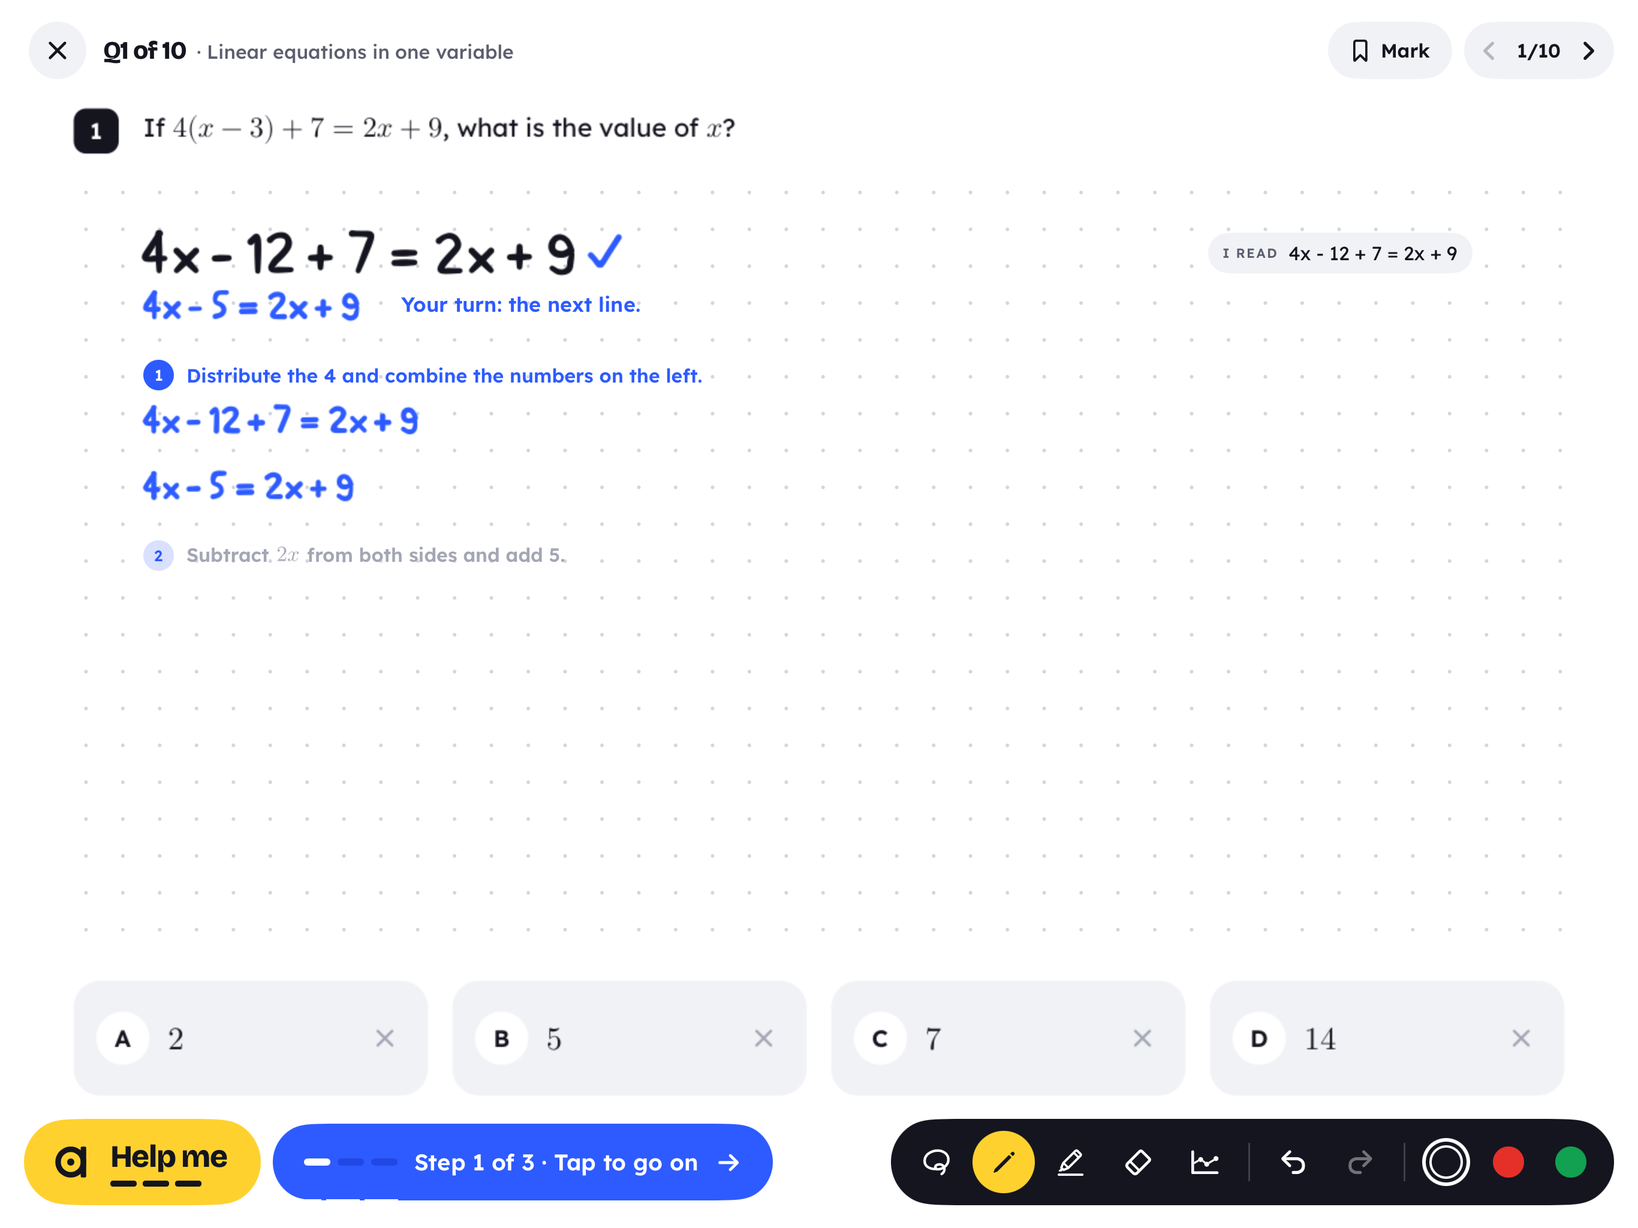
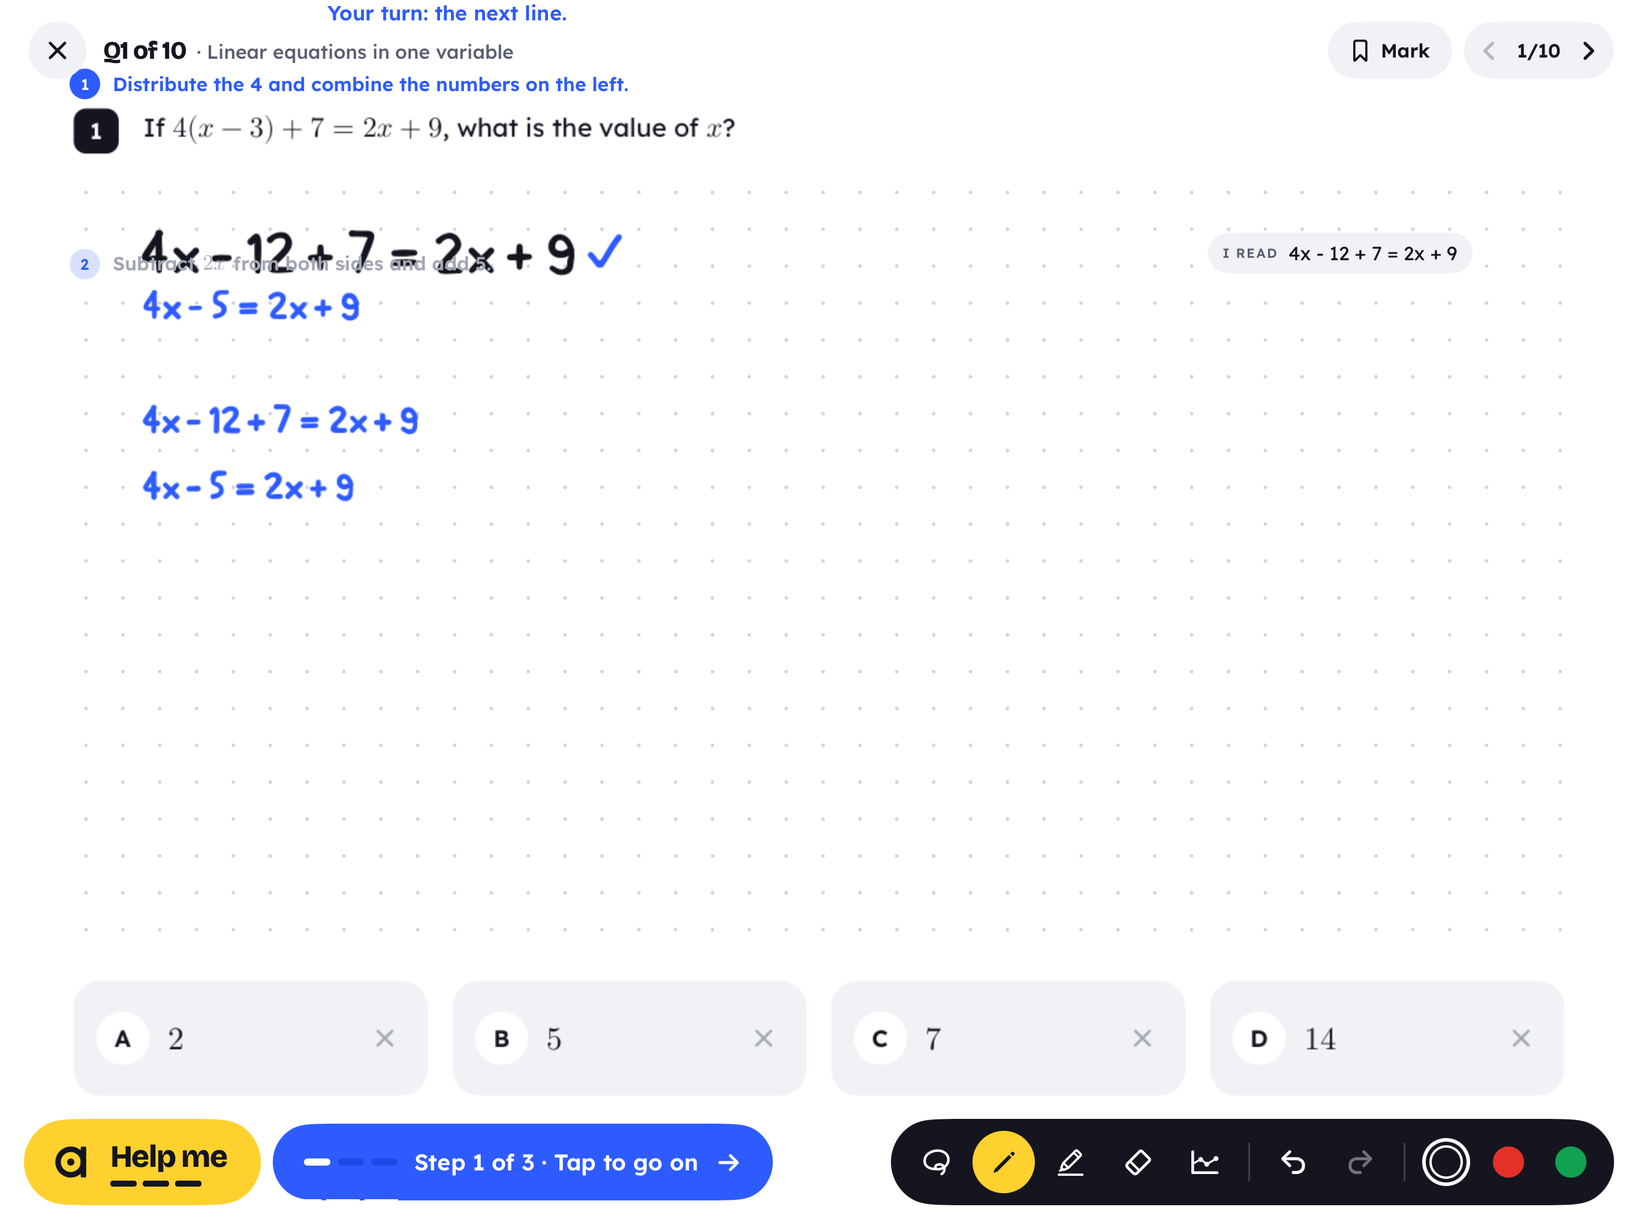
fix(sat2): upright, the page fits the width (the chrome and the page layer never widen the canvas), the row clear of the dock; the ladder card over Help me; the grid-in's rule; the live E2E test (skipped without AGATHON_E2E) and its autowrite tokens

diff --git a/ios/AgathonUITests/SATLiveE2ETests.swift b/ios/AgathonUITests/SATLiveE2ETests.swift
@@ -1,0 +1,111 @@
+import XCTest
+
+/// SAT v2 end to end against a LOCAL server with the REAL live services (no stubs): skipped unless
+/// `AGATHON_E2E=1`. Run it in an integration step with a capped budget (it makes real recognize,
+/// check and Help me calls), never against production:
+///
+///     AGATHON_E2E=1 AGATHON_API_URL=http://localhost:3901 SUPABASE_URL=… SUPABASE_ANON_KEY=… \
+///     xcodebuild test-without-building … -only-testing:AgathonUITests/SATLiveE2ETests -parallel-testing-enabled NO
+///
+/// (the TEST_RUNNER_ prefix passes them to the app: `TEST_RUNNER_AGATHON_E2E`, `TEST_RUNNER_AGATHON_API_URL`, …).
+///
+/// The flow, as a student with no account (`POST /api/sat/anon`, the simulator's debug header):
+///  1. the first run's "I'm studying for the SAT" → SAT home → Practice 10 (`/api/sat/next`, the bank's v2
+///     notes, `tz`);
+///  2. on question 1 the student writes the question's own first solution step in a student's hand
+///     (`StudentHand`, through the canvas's touch path): the first ink claims the pass
+///     (`/api/sat/tutor`), the line is read (`/api/live/recognize`, `sat_question_id`) and TICKED;
+///  3. Help me twice: the nudge, then ONE step through the live Help me (`step live`, "Your turn");
+///  4. the first question with a plane: a loop round its first labelled point → `sat_figure_marks`
+///     ("circled near (…)") rides on the live bodies; the student writes a line, and the tutor reads it
+///     with the marks in its context.
+final class SATLiveE2ETests: XCTestCase {
+    private var app: XCUIApplication!
+    private let env = ProcessInfo.processInfo.environment
+
+    override func setUpWithError() throws {
+        try XCTSkipUnless(env["AGATHON_E2E"] == "1", "the end-to-end run needs AGATHON_E2E=1 and a local server (real live calls)")
+        continueAfterFailure = false
+        XCUIDevice.shared.orientation = .landscapeLeft
+    }
+
+    override func tearDownWithError() throws {
+        app?.terminate()
+    }
+
+    func testARealSATPageTicksHelpsAndReadsTheFigure() throws {
+        app = XCUIApplication()
+        app.launchArguments += ["-satLive", "-noLabs", "-onboardingFresh",
+                                "-satAutowrite", "step:0|step:1|circle:auto|step:0"]
+        for key in ["AGATHON_API_URL", "SUPABASE_URL", "SUPABASE_ANON_KEY"] {
+            if let v = env[key] { app.launchEnvironment[key] = v }
+        }
+        app.launch()
+        tap("onboarding.who.sat", wait: 60)
+        XCTAssertTrue(element("sat.home").waitForExistence(timeout: 60), "SAT home with an anonymous session")
+        tap("sat.home.practice10", wait: 30)
+        XCTAssertTrue(element("board.canvas").waitForExistence(timeout: 60))
+        waitFor("sat.position", label: "Q1 of", timeout: 30)
+        probe("tutor ready live off")
+
+        // 2. a right step in a student's hand: the pass, the read, the tick
+        tap("sat.debug.write")
+        probe("tutor on live on", timeout: 60)
+        probe("read 1", timeout: 60)
+        probe("ticks 1", timeout: 90)
+
+        // 3. Help me: the nudge, then one step through the live tutor
+        tap("sat.helpMe")
+        probe("rung ", timeout: 10)
+        tap("sat.helpMe")
+        probe("rung 2", timeout: 10)
+        probe("yourTurn yes", timeout: 90)
+        probe("step live", timeout: 5)
+        XCTAssertTrue(element("sat.yourTurn").exists)
+
+        // 4. the first question with a plane: marks on it, read in its terms
+        tap("sat.debug.write") // step:1 (more work on question 1: the next step)
+        var found = false
+        for _ in 0..<9 {
+            tap("sat.next")
+            sleep(2)
+            if (element("sat.debug").value as? String ?? "").contains("plot yes") {
+                found = true
+                break
+            }
+        }
+        try XCTSkipUnless(found, "the set had no question with a plane")
+        tap("sat.debug.write") // circle:auto
+        probe("marks On the question's graph the student drew: circled near", timeout: 30)
+        tap("sat.debug.write") // a line on the plane's page: read with the marks beside sat_question_id
+        probe("read 1", timeout: 90)
+    }
+
+    // MARK: - helpers
+
+    private func probe(_ text: String, timeout: TimeInterval = 15, file: StaticString = #filePath, line: UInt = #line) {
+        waitFor("sat.debug", value: text, timeout: timeout, file: file, line: line)
+    }
+
+    private func element(_ id: String) -> XCUIElement {
+        app.descendants(matching: .any).matching(identifier: id).firstMatch
+    }
+
+    private func tap(_ id: String, wait: TimeInterval = 15, file: StaticString = #filePath, line: UInt = #line) {
+        let e = element(id)
+        XCTAssertTrue(e.waitForExistence(timeout: wait), "no \(id)", file: file, line: line)
+        let end = Date().addingTimeInterval(wait)
+        while !e.isHittable && Date() < end { usleep(100_000) }
+        usleep(400_000)
+        e.tap()
+    }
+
+    private func waitFor(_ id: String, label: String? = nil, value: String? = nil, timeout: TimeInterval,
+                         file: StaticString = #filePath, line: UInt = #line) {
+        let e = element(id)
+        XCTAssertTrue(e.waitForExistence(timeout: timeout), "no \(id)", file: file, line: line)
+        let predicate = value.map { NSPredicate(format: "value CONTAINS %@", $0) } ?? NSPredicate(format: "label CONTAINS %@", label ?? "")
+        let result = XCTWaiter().wait(for: [XCTNSPredicateExpectation(predicate: predicate, object: e)], timeout: timeout)
+        XCTAssertEqual(result, .completed, "\(id) never said \(value ?? label ?? ""): \(e.value as? String ?? "nil")", file: file, line: line)
+    }
+}

diff --git a/ios/Agathon/Screens/SAT/SATSessionScreen.swift b/ios/Agathon/Screens/SAT/SATSessionScreen.swift
@@ -130,10 +130,7 @@ private struct SATBoardRoom: View {
     @State private var graphOpen = false
 
     /// Upright, the page sits a little lower so the question never goes under the top bar.
-    private var topInset: Double {
-        let k = size.width / 1600
-        return max(0, 84 - 104 * k)
-    }
+    private var topInset: Double { SATSessionModel.topInset(width: size.width) }
 
     var body: some View {
         ZStack {
@@ -190,20 +187,11 @@ private struct SATBoardRoom: View {
             SATTopBar(model: topModel, close: close, mark: { practice.toggleMarked(); model.objectWillChange.send() },
                       previous: { model.previous() }, next: { model.next() }, capTapped: capTapped)
             Spacer(minLength: 0)
-            if model.ladderCard {
-                HStack {
-                    SATLadderCard { model.ladderCard = false }
-                    Spacer()
-                }
-                .padding(.horizontal, SATChromeSize.edge)
-                .padding(.bottom, 12)
-                .transition(.opacity)
-            }
             HStack(alignment: .center, spacing: SATChromeSize.gap) {
                 SATHelpButton(used: practice.item.ladder.reached?.rawValue) { model.helpMe() }
                 checkOrWalk
                 Spacer(minLength: 12)
-                SATDock(controller: controller) { graphOpen = true }
+                SATDock(controller: controller, compact: size.width < 1100) { graphOpen = true }
                     .popover(isPresented: $graphOpen, arrowEdge: .bottom) {
                         SATGraphField { typed in await model.graph(typed) }
                             .presentationCompactAdaptation(.popover)
@@ -212,7 +200,8 @@ private struct SATBoardRoom: View {
             .padding(.horizontal, SATChromeSize.edge)
             .padding(.bottom, 19)
         }
-        .padding(.top, 0)
+        // the chrome never widens the board (a row too wide for the window squeezes, it doesn't push)
+        .frame(width: size.width, height: size.height)
     }
 
     @ViewBuilder private var checkOrWalk: some View {
@@ -260,8 +249,9 @@ private struct SATPageLayer: View {
 
     var body: some View {
         let screen = model.phase.session?.controller.currentScreenID
-        ZStack(alignment: .topLeading) {
-            Color.clear.allowsHitTesting(false)
+        // over a flexible clear base: what is placed past the edge never sizes the layer (nor, with
+        // it, the board's ZStack, the canvas and the camera's fit)
+        Color.clear.allowsHitTesting(false).overlay(alignment: .topLeading) { ZStack(alignment: .topLeading) {
             if let layout = model.layoutHere, let q = practice.current {
                 ForEach(model.words.filter { $0.screen == screen }) { w in
                     let at = viewport.toView(w.at)
@@ -279,9 +269,17 @@ private struct SATPageLayer: View {
                 }
                 answerTargets(layout, q)
                 if model.showsWrongNote { wrongNote(layout, q) }
+                if model.ladderCard {
+                    // over Help me (bottom left), clear of the answer row
+                    let rowTop = viewport.toView(Vec2(0, layout.rowTop)).y
+                    SATLadderCard { model.ladderCard = false }
+                        .alignmentGuide(.leading) { _ in -SATChromeSize.edge }
+                        .alignmentGuide(.top) { d in -(rowTop - 20 - d.height) }
+                        .transition(.opacity)
+                }
             }
-        }
-        .frame(maxWidth: .infinity, maxHeight: .infinity, alignment: .topLeading)
+        } }
+        .clipped()
         .id(model.layoutTick)
     }
 

diff --git a/ios/Packages/AgathonSAT/Sources/AgathonSAT/Session/SATChrome.swift b/ios/Packages/AgathonSAT/Sources/AgathonSAT/Session/SATChrome.swift
@@ -309,17 +309,22 @@ enum SATChromeColor {
 /// undo, redo | three pens (ink, red, green). No page arrows: the top bar has them.
 public struct SATDock: View {
     @ObservedObject var controller: BoardController
+    /// a narrow window (upright): a little tighter, so the row fits beside Help me and Check
+    let compact: Bool
     let graph: () -> Void
 
-    public init(controller: BoardController, graph: @escaping () -> Void) {
+    public init(controller: BoardController, compact: Bool = false, graph: @escaping () -> Void) {
         self.controller = controller
+        self.compact = compact
         self.graph = graph
     }
+
+    private var tool: CGFloat { compact ? 46 : 52 }
 
     public static let pens: [InkColor] = [.black, .red, .green]
 
     public var body: some View {
-        HStack(spacing: 4) {
+        HStack(spacing: compact ? 2 : 4) {
             tool(.select, "lasso", "Select", id: "sat.tool.select")
             tool(.pen, "pencil", "Pencil", id: "sat.tool.pen")
             tool(.highlighter, "highlighter", "Highlighter", id: "sat.tool.highlighter")
@@ -340,7 +345,7 @@ public struct SATDock: View {
                         Circle().fill(Color(cgColor: RenderGeometry.cgColor(pen))).frame(width: pen == .black ? 28 : 26, height: pen == .black ? 28 : 26)
                             .overlay(Circle().strokeBorder(pen == .black ? DS.Color.onInk : .clear, lineWidth: 2))
                     }
-                    .frame(width: 48, height: 48)
+                    .frame(width: compact ? 44 : 48, height: 48)
                     .contentShape(Rectangle())
                 }
                 .buttonStyle(SATPress())
@@ -349,13 +354,13 @@ public struct SATDock: View {
                 .accessibilityIdentifier("sat.pen.\(pen.rawValue)")
             }
         }
-        .padding(.horizontal, 12)
+        .padding(.horizontal, compact ? 8 : 12)
         .frame(height: SATChromeSize.dock)
         .background(Capsule().fill(DS.Color.ink))
     }
 
     private var separator: some View {
-        Rectangle().fill(DS.Color.onInkFaint).frame(width: 1.5, height: 32).padding(.horizontal, 6)
+        Rectangle().fill(DS.Color.onInkFaint).frame(width: 1.5, height: 32).padding(.horizontal, compact ? 3 : 6)
     }
 
     private func tool(_ t: BoardTool, _ symbol: String, _ label: String, id: String) -> some View {
@@ -364,7 +369,7 @@ public struct SATDock: View {
             Image(systemName: symbol)
                 .font(.system(size: 21, weight: .semibold))
                 .foregroundStyle(on ? DS.Color.ink : DS.Color.onInk)
-                .frame(width: 52, height: 52)
+                .frame(width: tool, height: tool)
                 .background(Circle().fill(on ? DS.Color.sunny : .clear))
                 .contentShape(Circle())
         }
@@ -379,7 +384,7 @@ public struct SATDock: View {
             Image(systemName: symbol)
                 .font(.system(size: 21, weight: .semibold))
                 .foregroundStyle(enabled ? DS.Color.onInk : DS.Color.onInkDisabled)
-                .frame(width: 52, height: 52)
+                .frame(width: tool, height: tool)
                 .contentShape(Circle())
         }
         .buttonStyle(SATPress())

diff --git a/ios/Agathon/Screens/SAT/SATSessionModel.swift b/ios/Agathon/Screens/SAT/SATSessionModel.swift
@@ -265,10 +265,16 @@ final class SATSessionModel: ObservableObject {
     /// its dots); the question itself never moves.
     func windowChanged(_ size: CGSize) {
         guard size.width > 0, size.height > 0 else { return }
-        let next = SATViewport(points: size.width, size.height, dockPoints: SATChromeSize.lane)
+        // (upright the page sits a little lower, under the top bar: the window is that much shorter)
+        let next = SATViewport(points: size.width, size.height - Self.topInset(width: size.width), dockPoints: SATChromeSize.lane)
         guard next != viewport else { return }
         viewport = next
         relayout()
+    }
+
+    /// How far down the page sits (pt): upright, enough that the question never goes under the top bar.
+    static func topInset(width: Double) -> Double {
+        max(0, 84 - 104 * width / 1600)
     }
 
     /// Every page laid out again at the window (and its ink): taller pages stay taller, the answer
@@ -285,6 +291,8 @@ final class SATSessionModel: ObservableObject {
             controller.setProblemPage(page, on: screen)
         }
         canvas?.reloadPrint()
+        // the camera fitted to the page's width in the new window
+        DispatchQueue.main.async { [weak self] in self?.canvas?.refitCamera() }
         layoutTick &+= 1
     }
 
@@ -1031,9 +1039,14 @@ final class SATSessionModel: ObservableObject {
         let here = words.filter { $0.screen == screen }
         let tutorInk = screen.map { s in phase.session?.controller.store.drawables(on: s).filter { $0.author == .tutor && $0.meta["live"]?.boolValue == true }.count ?? 0 } ?? 0
         let page = layoutHere.map { "\(Int($0.pageHeight))" } ?? "-"
+        let scale = canvas.map { String(format: "%.3f %.0fx%.0f", $0.camera.scale, $0.bounds.width, $0.bounds.height) } ?? "-"
+        let ticks = screen.map { s in phase.session?.controller.store.records.values.filter { r in
+            if case .mark(let m) = r { return m.screen == s && m.kind == .tick } else { return false }
+        }.count ?? 0 } ?? 0
+        let plot: String = { if case .plot? = practice.current?.figure { return "yes" } else { return "no" } }()
         return "q \(practice.index + 1) tutor \(state) live \(live) passes \(passes) attempts \(attempts) calls \(quiet?.calls ?? -1) tag \(tag.satQuestionId ?? "-") "
             + "rung \(rung) words \(here.count) yourTurn \(here.contains { $0.kind == .yourTurn } ? "yes" : "no") walk \(walk.map { "\($0.shown)/\($0.count)" } ?? "-") "
-            + "tutorInk \(tutorInk) marks \(figureMarks ?? "-") page \(page) step \(lastStepSource) read \(tutor?.loop.readLines.count ?? 0) fig \(screen.map { kidStrokes(on: $0, figure: true).count } ?? -1)/\(screen.map { kidStrokes(on: $0).count } ?? -1)"
+            + "tutorInk \(tutorInk) marks \(figureMarks ?? "-") page \(page) step \(lastStepSource) read \(tutor?.loop.readLines.count ?? 0) fig \(screen.map { kidStrokes(on: $0, figure: true).count } ?? -1)/\(screen.map { kidStrokes(on: $0).count } ?? -1) ticks \(ticks) plot \(plot) scale \(scale)"
     }
     #endif
 }

diff --git a/ios/Agathon/Screens/SAT/SATAutowriter.swift b/ios/Agathon/Screens/SAT/SATAutowriter.swift
@@ -33,8 +33,19 @@ enum SATAutowriter {
         guard let canvas = model.canvas, let controller = model.phase.session?.controller, let tutor = model.tutor else { return }
         let screen = controller.currentScreenID
         var strokes: [[Vec2]] = []
+        var line = line
+        // `step:k`: the question's own bank step k, its last link (a right step the tutor can tick:
+        // the end-to-end run, whatever question the server sent)
+        if line.hasPrefix("step:"), let k = Int(line.dropFirst("step:".count)), let q = model.practice.current,
+           q.solution.steps.indices.contains(k), let math = q.solution.steps[k].math {
+            line = SATSessionModel.handLines(math).last ?? math
+        }
         if line.hasPrefix("circle:") {
-            let n = line.dropFirst("circle:".count).split(separator: ",").compactMap { Double($0.trimmingCharacters(in: .whitespaces)) }
+            // `circle:auto`: round the plane's first labelled point
+            var n = line.dropFirst("circle:".count).split(separator: ",").compactMap { Double($0.trimmingCharacters(in: .whitespaces)) }
+            if line == "circle:auto", case .plot(let p)? = model.practice.current?.figure {
+                for item in p.items { if case .point(let at, _, _) = item { n = [at.x, at.y]; break } }
+            }
             guard n.count == 2, let plot = model.questionPlot(on: screen) else { return }
             let c = plot.page(n[0], n[1])
             strokes = [(0...28).map { k in

diff --git a/ios/AgathonUITests/SATSessionUITests.swift b/ios/AgathonUITests/SATSessionUITests.swift
@@ -234,6 +234,8 @@ final class SATSessionUITests: XCTestCase {
         XCUIDevice.shared.orientation = .portrait
         portrait = true
         sleep(2)
+        // turned: the same page fitted to the upright window's width, the row at its new bottom
+        probe("scale 0.640", timeout: 10)
         snap("portrait-13-question")
         // the plotted line question of the sample, in portrait
         for _ in 2...4 { tap("sat.next") }
@@ -269,6 +271,9 @@ final class SATSessionUITests: XCTestCase {
         portrait = true
         launch(stub: "cap=20,used=0")
         openSet()
+        // upright the page is the window's height (less the top bar's offset) in page units
+        probe("page 2107")
+        probe("scale 0.640")
         snap("portrait-01-question")
         tap("sat.choice.C")
         tap("sat.check")

diff --git a/ios/Packages/AgathonSAT/Sources/AgathonSAT/Print/SATFigurePrinter.swift b/ios/Packages/AgathonSAT/Sources/AgathonSAT/Print/SATFigurePrinter.swift
@@ -205,7 +205,8 @@ struct SATFigurePrinter {
                 }
                 if let lbl, !lbl.isEmpty {
                     // to the side the line isn't on; a point on the y axis: left of the axis, under it
-                    if at.x == axisX {
+                    // (a line that runs on left of the axis takes the free side like any point)
+                    if at.x == axisX && (plot.x.min >= axisX || !plot.items.contains { if case .function = $0 { return true } else { return false } }) {
                         over += label(lbl, size: Self.pointLabelSize, at: CGPoint(x: c.x - 10, y: c.y + 14), anchor: CGPoint(x: 1, y: 0), weight: .semibold)
                     } else {
                         // the free corner above the point: left of a rising line, right of a falling one

diff --git a/ios/Packages/AgathonSAT/Sources/AgathonSAT/Print/SATPagePrinter.swift b/ios/Packages/AgathonSAT/Sources/AgathonSAT/Print/SATPagePrinter.swift
@@ -203,7 +203,7 @@ public struct SATPagePrinter {
             items.append(.fill(CGPath(rect: CGRect(x: caretX, y: box.midY - 22, width: 3, height: 44), transform: nil), S.focus))
         }
         if let rules = layout.gridInRules, rules.w > 80 {
-            let laid = text.lay(SATCopy.gridInRules, size: style.gridInRulesSize, maxWidth: rules.w, color: S.inkSecondary)
+            let laid = text.lay(SATCopy.gridInRulesShort, size: style.gridInRulesSize, maxWidth: rules.w, color: S.inkSecondary)
             items += laid.items(at: CGPoint(x: rules.x, y: rules.midY - laid.size.h / 2))
         }
         // the keypad: digits on chalk, the symbols and delete on guide grey

diff --git a/ios/Packages/AgathonSAT/Sources/AgathonSAT/Support/SATCopy.swift b/ios/Packages/AgathonSAT/Sources/AgathonSAT/Support/SATCopy.swift
@@ -27,6 +27,8 @@ public enum SATCopy {
     public static let restore = "Bring back"
     public static let gridInLabel = "Your answer"
     public static let gridInTap = "Tap to type your answer"
+    /// the grid-in's rule beside the box on the page (the design notes)
+    public static let gridInRulesShort = "Up to 5 characters. A fraction like 3/4 or a decimal."
     public static let gridInRules = "Fractions or decimals. Up to 5 characters, 6 with a minus. No mixed numbers."
     public static let solution = "Solution"
     public static let desmos = "On the graphing calculator"

diff --git a/ios/Packages/AgathonBoard/Sources/AgathonBoard/Canvas/BoardCanvasView.swift b/ios/Packages/AgathonBoard/Sources/AgathonBoard/Canvas/BoardCanvasView.swift
@@ -329,6 +329,12 @@ public final class BoardCanvasView: UIView, BoardRendering, UIGestureRecognizerD
         updateDetail()
     }
 
+    /// The camera back to the fitted view (SAT v2: the window turned and the pages were laid out again).
+    public func refitCamera() {
+        refit()
+        tiles.rebase(px: basePx)
+    }
+
     private func refit() {
         guard bounds.width > 0 else { return }
         camera = constraintsInsets.fit(screenRect, in: bounds.size)
